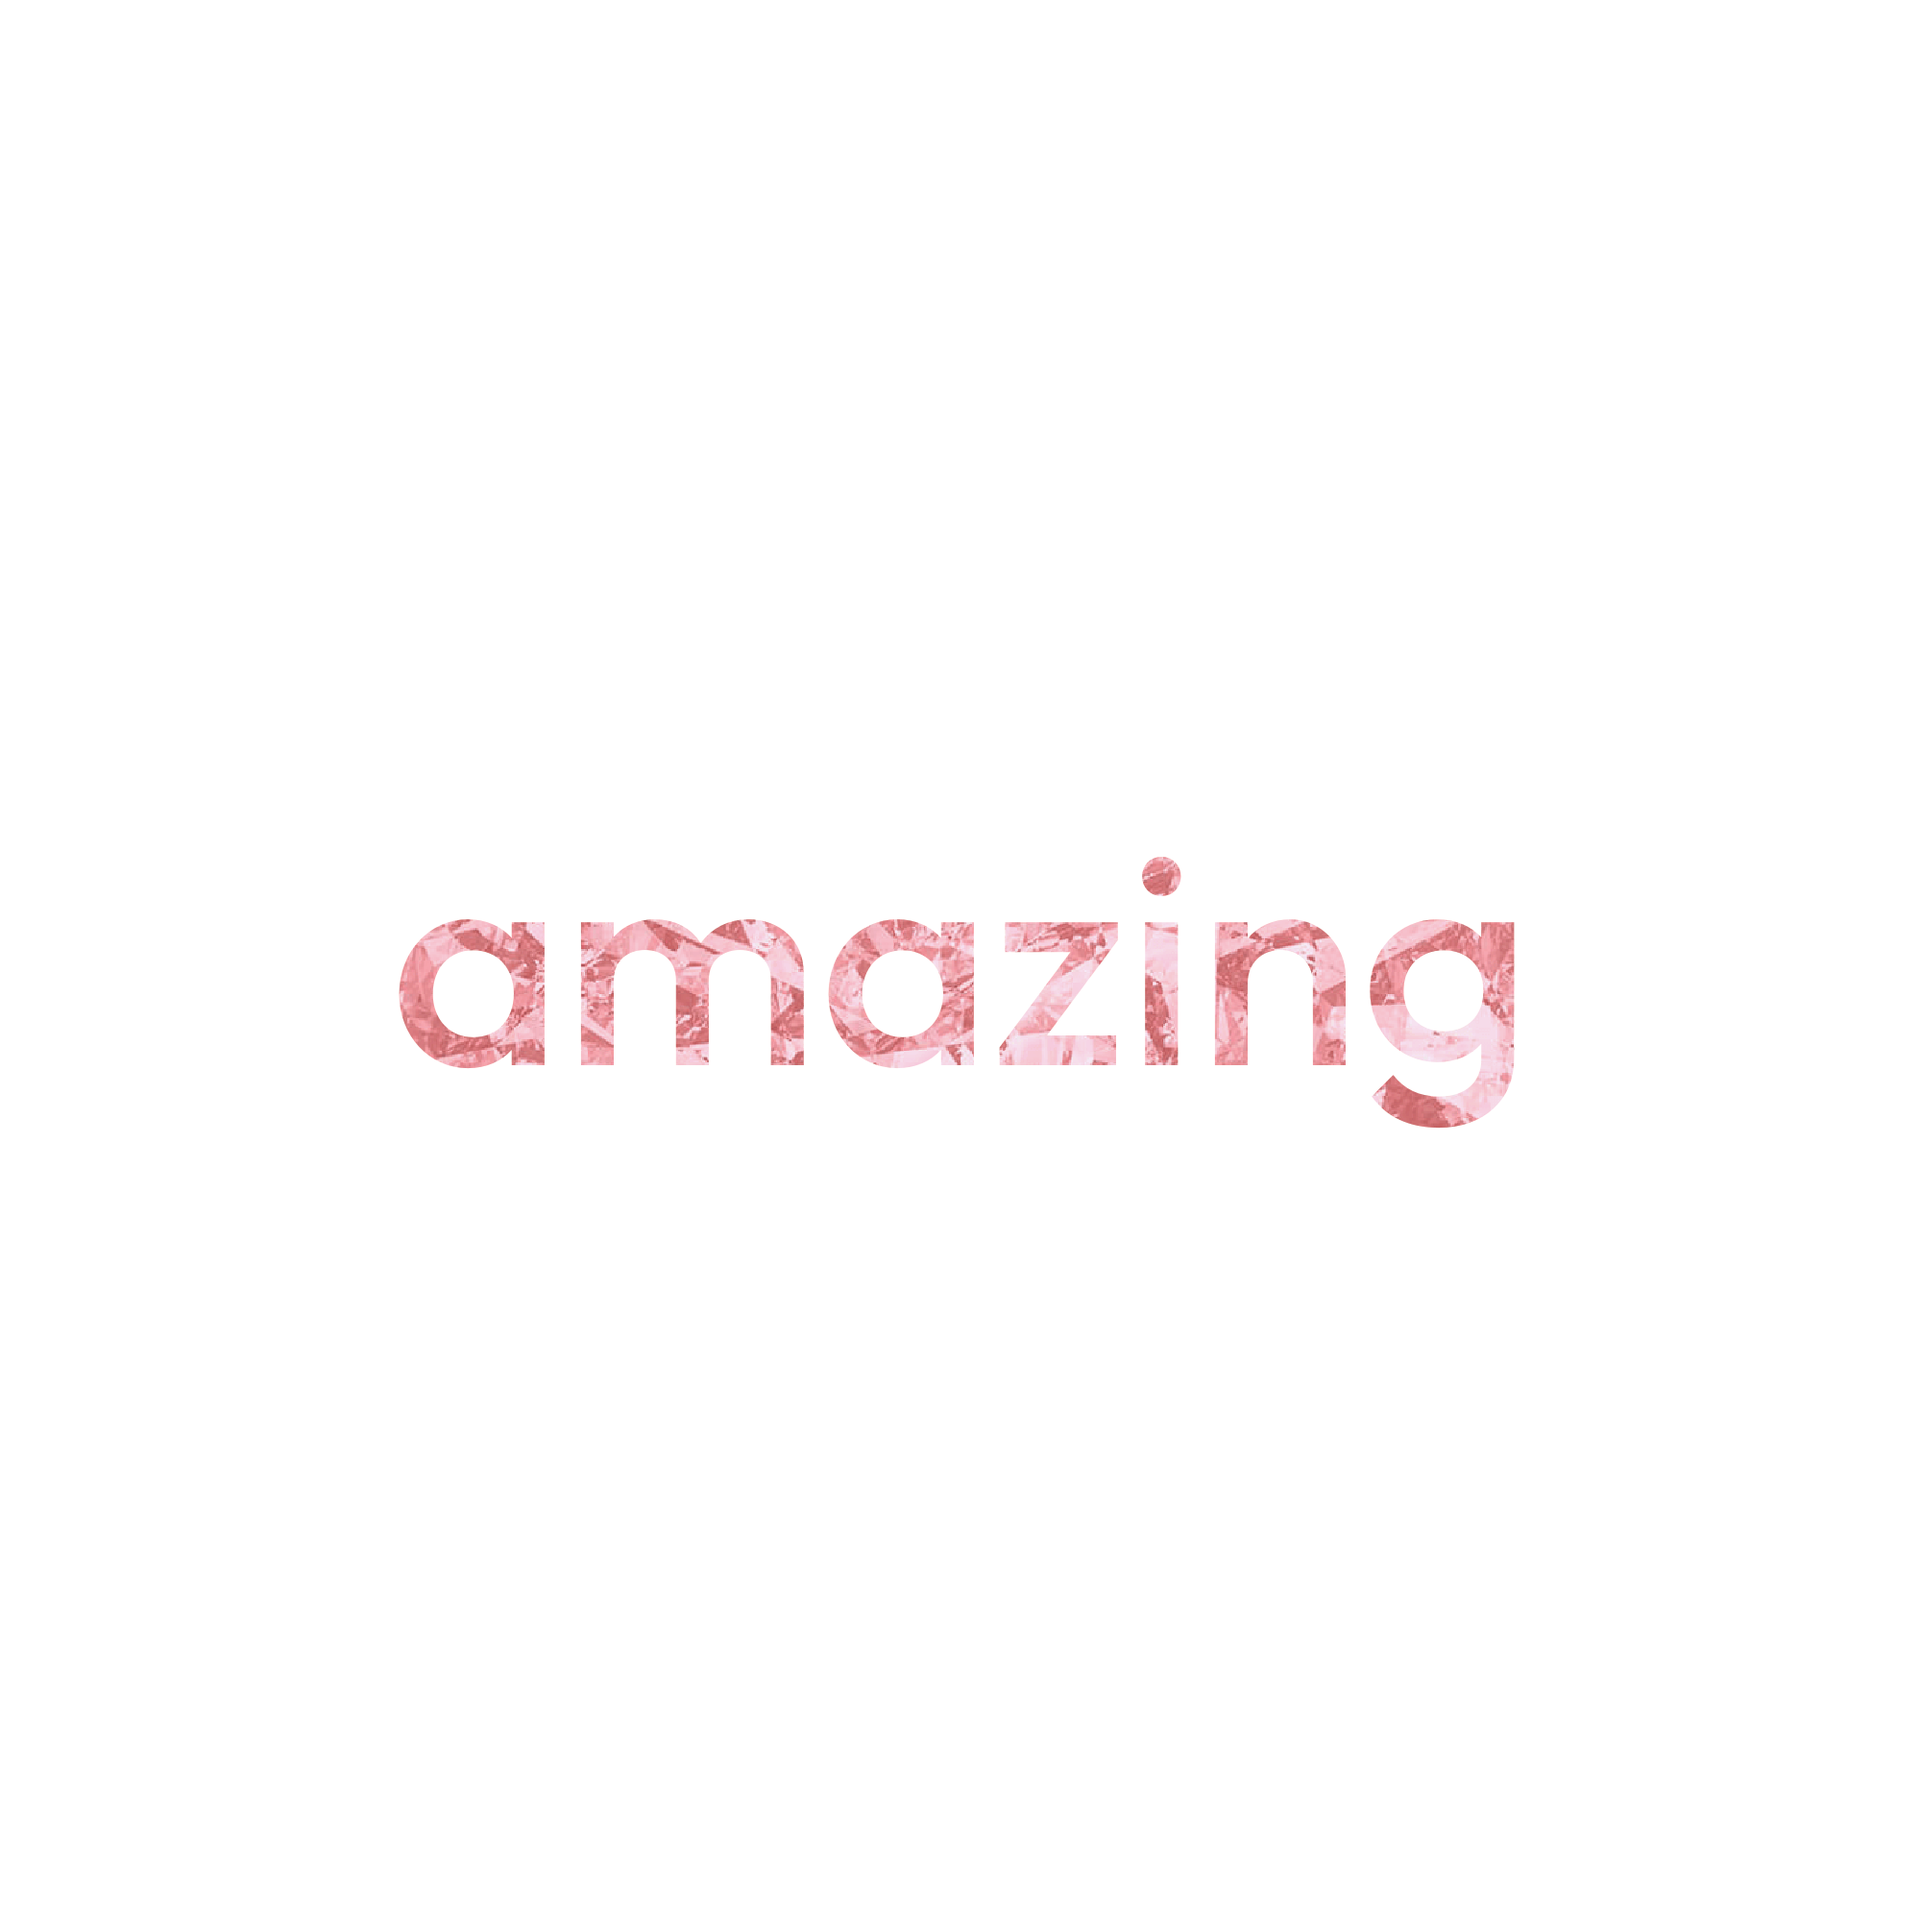
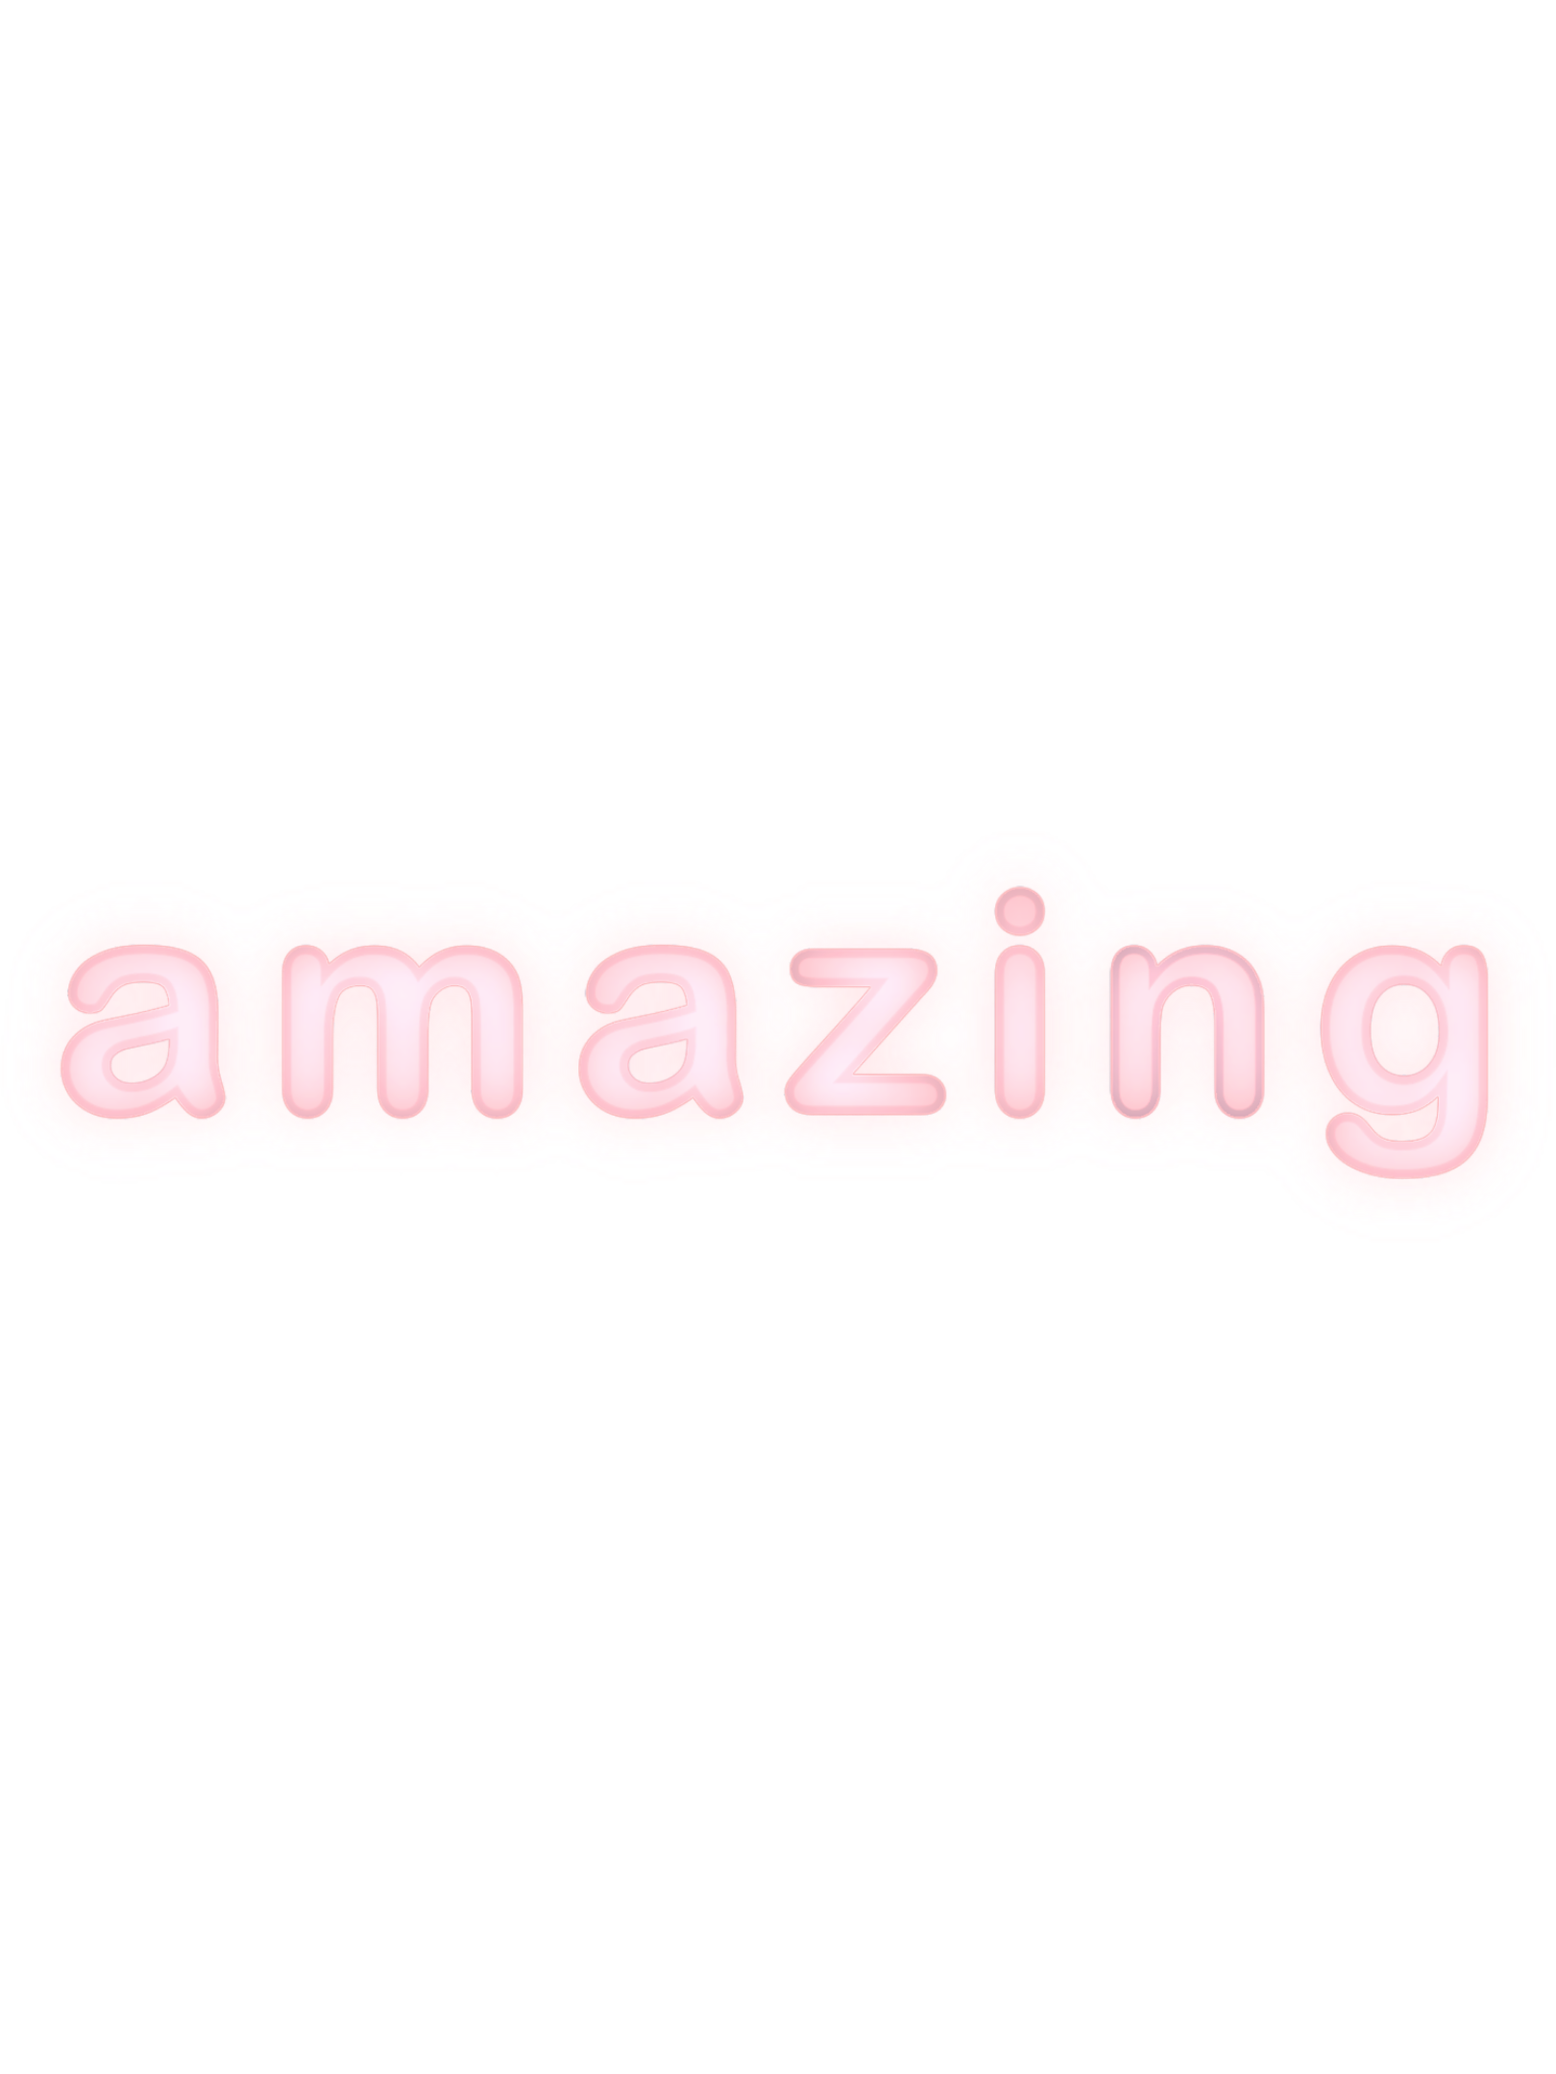
image changes

Changed region(s): [[0.0309, 0.403, 0.9568, 0.589]]

diff --git a/src/components/Portfolio/HomeNav.js b/src/components/Portfolio/HomeNav.js
@@ -3,39 +3,39 @@ import { Link, useLocation } from "react-router-dom";
 
 const HomeNav = () => {
 
-   
-  return (
-        <div className="homeNav_container">
-           <h1 className='londa'>
-        Londa Ploetz
-      </h1>
-<div className='circle-links'>
-      <a href= 'mailto:lploetz@hotmail.com' 
-         target = "_blank" 
-         className = "email-img" 
-         rel="noopener noreferrer"
-         ></a> 
-     <a href= "https://github.com/londaploetz"
-         target = "_blank" 
-         className = "github-img" 
-         rel="noopener noreferrer"
-         ></a> 
-        <a href= "https://linkedin.com/in/londa-ploetz"
-         target = "_blank" 
-         className = "linkedin-img" 
-         rel="noopener noreferrer"
-         ></a> 
-     </div>
-        <Link
-              to="/home"
-             id="home-text"
-               className='project-home'>
-             Home
-            </Link>
-            
-      </div>
-     )
-} 
+
+      return (
+            <div className="homeNav_container">
+                  <h1 className='londa'>
+                        Londa Ploetz
+                  </h1>
+                  <div className='circle-links'>
+                        <a href='mailto:lploetz@hotmail.com'
+                              target="_blank"
+                              className="email-img"
+                              rel="noopener noreferrer"
+                        ></a>
+                        <a href="https://github.com/londaploetz"
+                              target="_blank"
+                              className="github-img"
+                              rel="noopener noreferrer"
+                        ></a>
+                        <a href="https://linkedin.com/in/londa-ploetz"
+                              target="_blank"
+                              className="linkedin-img"
+                              rel="noopener noreferrer"
+                        ></a>
+                  </div>
+                  <Link
+                        to="/home"
+                        id="home-text"
+                        className='project-home'>
+                        Home
+                  </Link>
+
+            </div>
+      )
+}
 
 
 

diff --git a/src/components/Brand/brand.css b/src/components/Brand/brand.css
@@ -38,6 +38,7 @@
     color: #707070;
     padding-left: 2ch;
     text-shadow: 0px 4px 4px rgba(202, 52, 52, 0.25);
+    margin: 0%;
 }
 
 
@@ -50,7 +51,7 @@
     display: flex;
     animation: changeBg 3s infinite;
     width: 100%;
-    height: 15ch;
+    height: 40ch;
     background-repeat: no-repeat;
     background-position: center;
     position: relative;
@@ -70,22 +71,22 @@
         background-image: url("../../Assets/Images/amazing1.png")
     }
 
-    25% {
+    20% {
 
         background-image: url("../../Assets/Images/amazing2.png")
     }
 
-    50% {
+    40% {
 
         background-image: url("../../Assets/Images/amazing3.png")
     }
 
-    75% {
+    60% {
 
         background-image: url("../../Assets/Images/amazing4.png")
     }
 
-    89% {
+    80% {
 
         background-image: url("../../Assets/Images/amazing5.png")
     }
@@ -226,6 +227,12 @@
         z-index: 0;
        
         
+    }
+    .bg_img_change {
+        width:80%;
+        left: 7ch;
+        padding-bottom: 0ch;
+        margin-right: 30ch;
     }
 }
 
